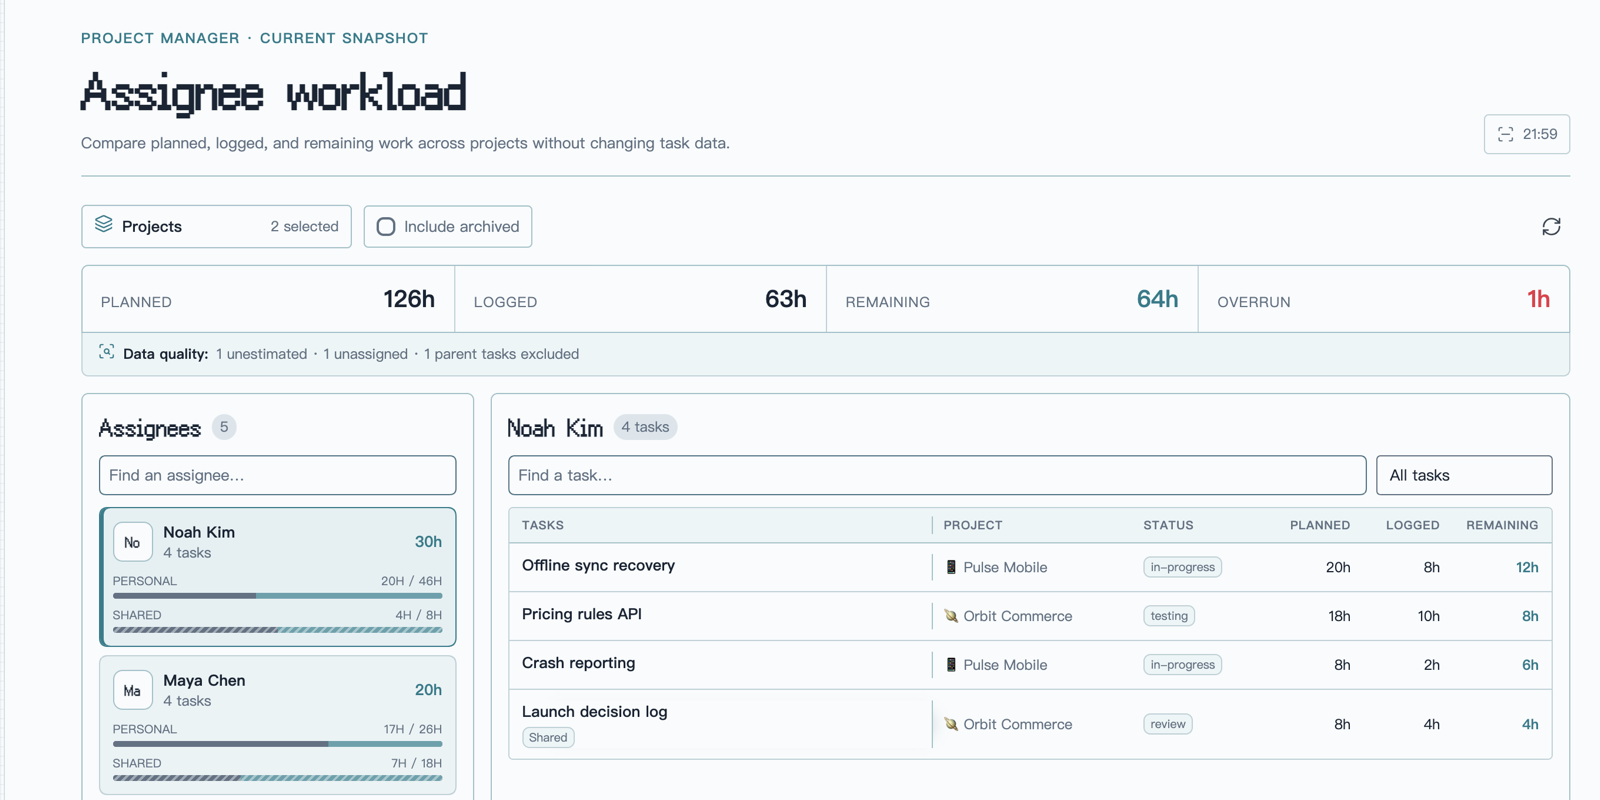
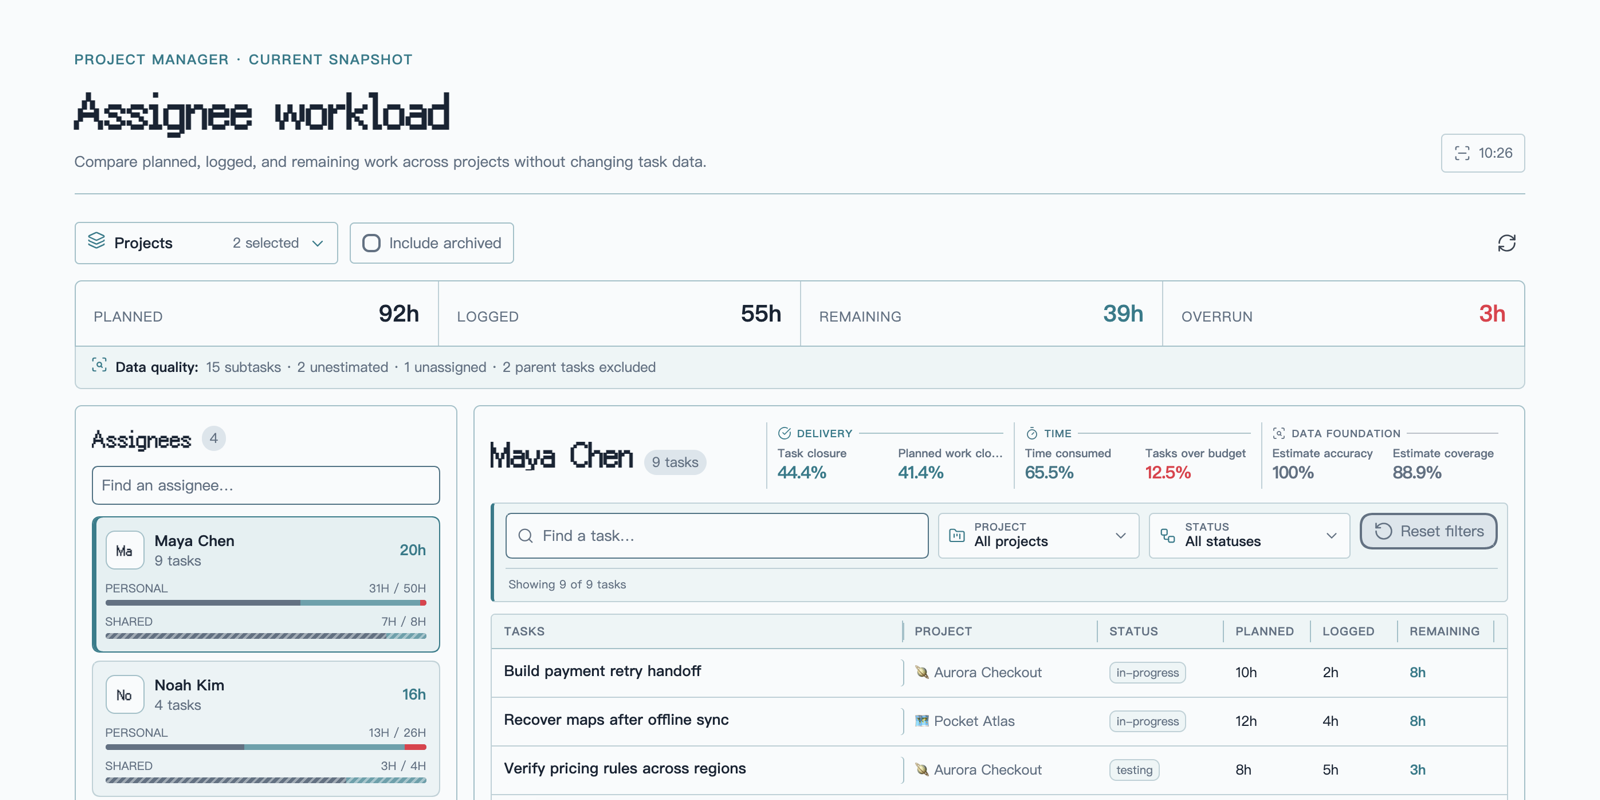
docs(readme): refresh v0.2 feature showcase

diff --git a/README.md b/README.md
@@ -19,9 +19,9 @@
   <p><strong>English</strong> · <a href="README.zh-CN.md">简体中文</a></p>
 </div>
 
-![Project Manager Insights workload dashboard with synthetic demo data](docs/assets/pm-insights-overview.png)
+![Project Manager Insights dashboard showing cross-project workload, member ratios, data quality, and task filters with synthetic demo data](docs/assets/pm-insights-overview.png)
 
-<p align="center"><sub>A cheerful little control room—captured with the Pixel theme and synthetic data. No real project data is shown.</sub></p>
+<p align="center"><sub>The v0.2 dashboard in one frame: cross-project totals, data-quality signals, a compact six-ratio ledger, and composable task filters. Captured with the Pixel theme and synthetic data; no real project information is shown.</sub></p>
 
 ## 🫧 One calm view for all those moving parts
 

diff --git a/README.zh-CN.md b/README.zh-CN.md
@@ -20,9 +20,9 @@
   <p><a href="README.md">English</a> · <strong>简体中文</strong></p>
 </div>
 
-![使用虚构演示数据展示的 Project Manager Insights 工作量面板](docs/assets/pm-insights-overview.png)
+![使用虚构演示数据展示跨项目工作量、个人比率、数据质量与任务筛选的 Project Manager Insights 面板](docs/assets/pm-insights-overview.png)
 
-<p align="center"><sub>一间轻快的小小控制室——使用 Pixel 主题和虚构数据拍摄，不含任何真实项目数据。</sub></p>
+<p align="center"><sub>一张图看完 v0.2 面板：跨项目汇总、数据质量提示、紧凑的六项个人比率，以及可组合的任务筛选。使用 Pixel 主题和虚构数据拍摄，不含任何真实项目信息。</sub></p>
 
 ## 🫧 把忙碌的项目装进一个安静窗口
 
